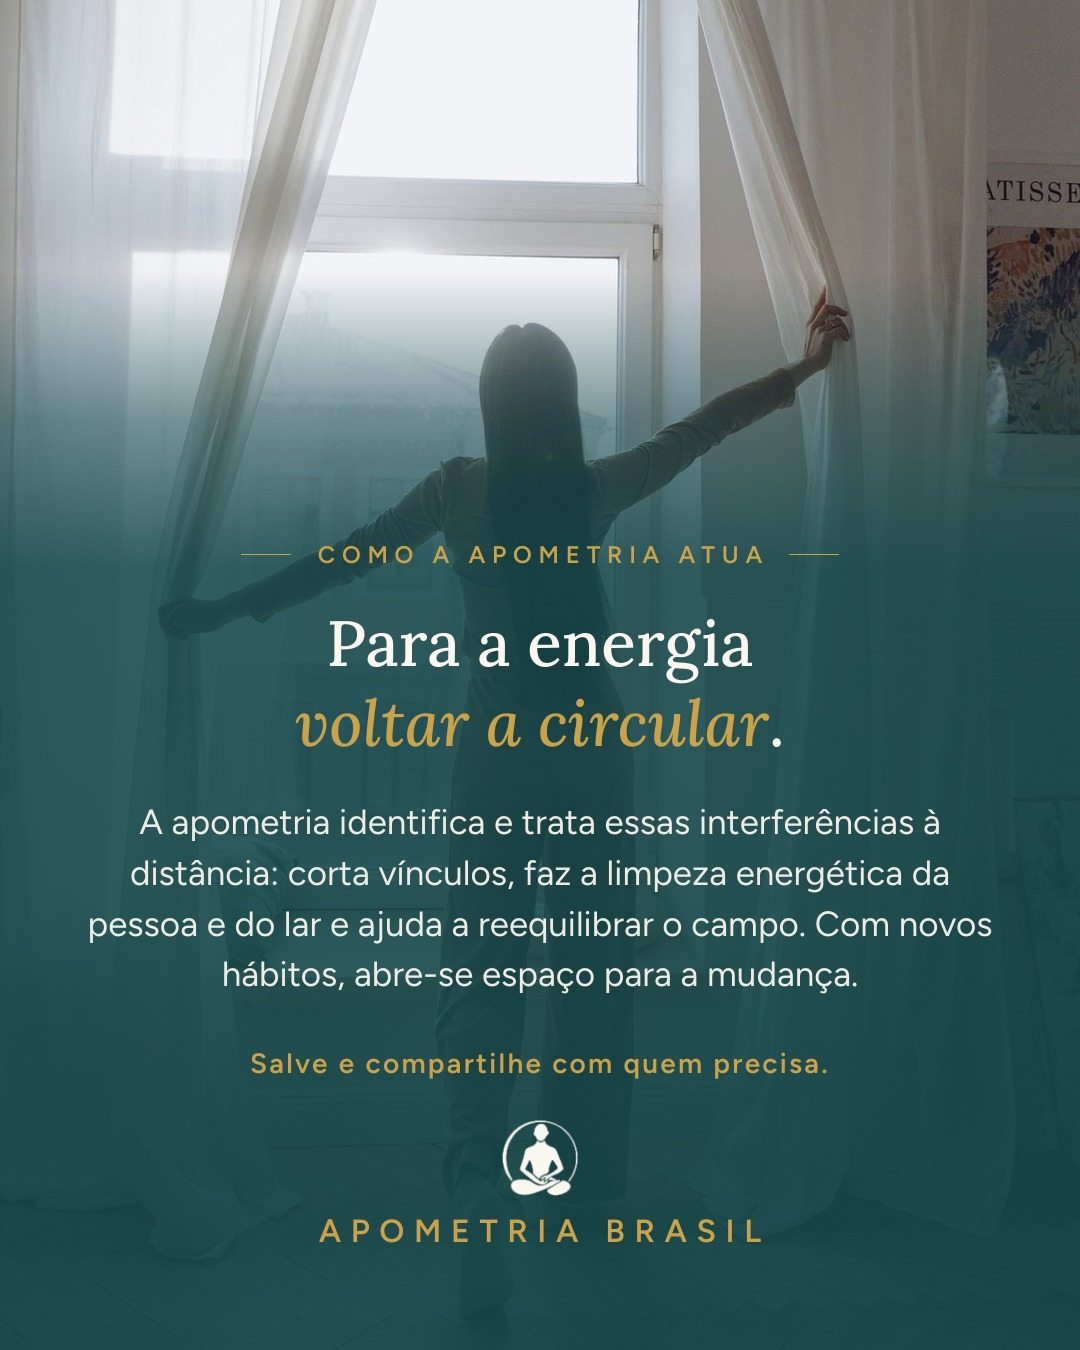
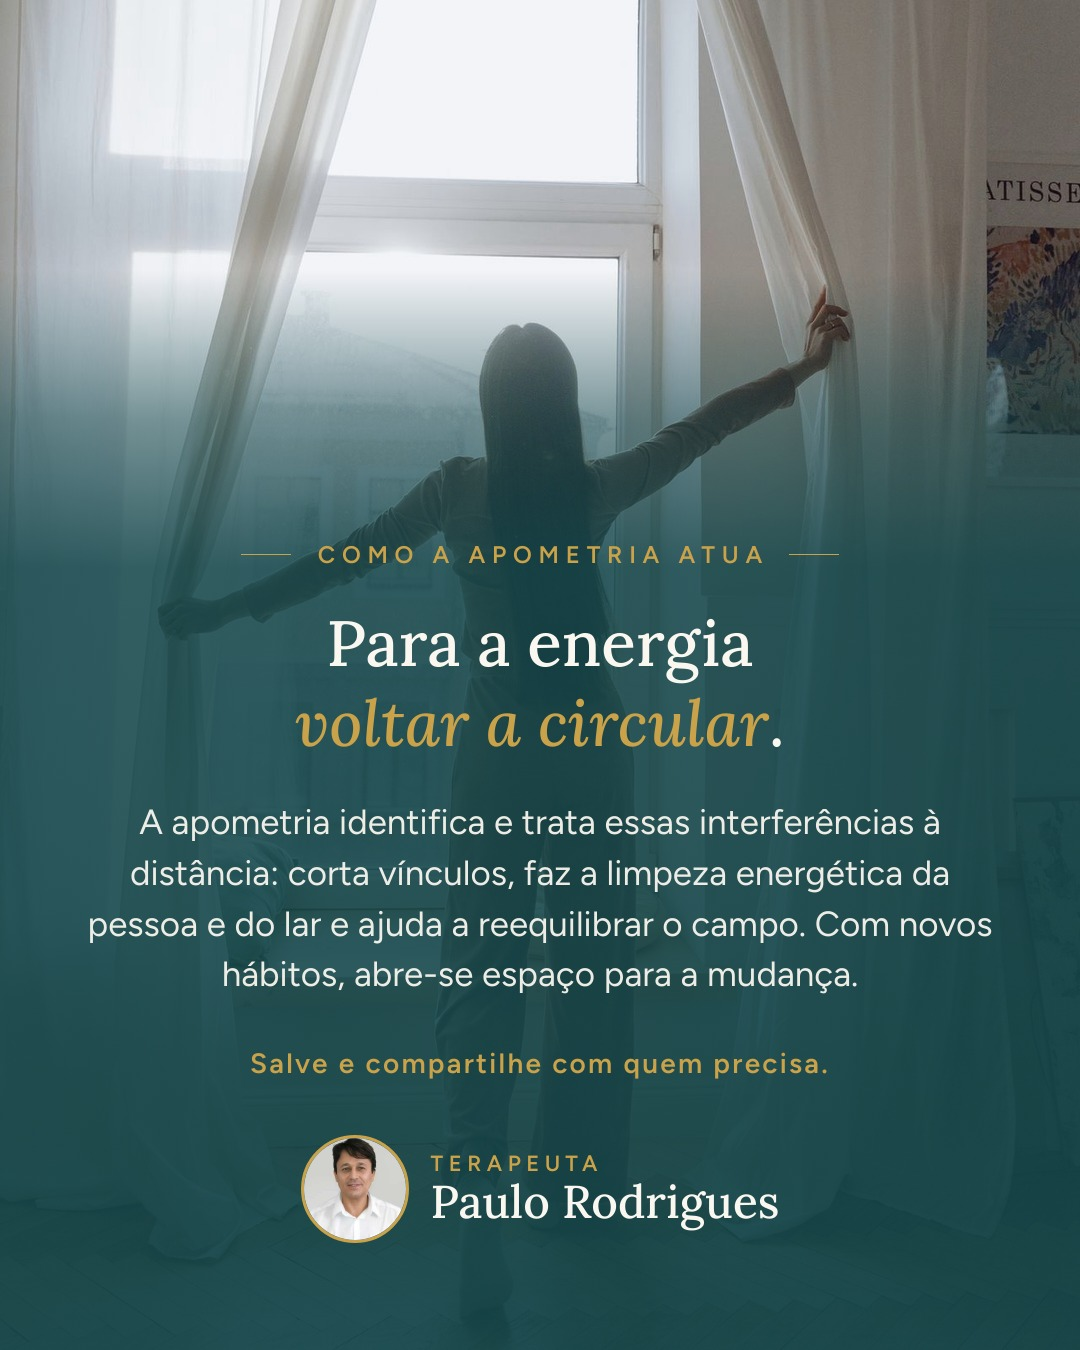
Assinatura da Apometria Brasil: foto e nome do terapeuta Paulo Rodrigues; carrossel de prosperidade atualizado
Claude-Session: https://claude.ai/code/session_01JEWNugGqZtfRNNpR6FEnd2

Changed region(s): [[0.275, 0.8089, 0.7333, 0.9333]]

diff --git a/modelos/remotion/src/Carrossel.tsx b/modelos/remotion/src/Carrossel.tsx
@@ -91,7 +91,7 @@ export const Carrossel: React.FC<PropsCarrossel> = ({pasta, identidade: id, lami
       </div>
       {ultima ? (
         id.assinatura ? (
-          <div style={{position: 'absolute', left: 0, width: 1080, top: 1100, display: 'flex', justifyContent: 'center', alignItems: 'center', gap: 22}}>
+          <div style={{position: 'absolute', left: 0, width: 1080, top: 1135, display: 'flex', justifyContent: 'center', alignItems: 'center', gap: 22}}>
             <Img src={arq(id.assinatura.foto)} style={{width: 108, height: 108, borderRadius: '50%', objectFit: 'cover', border: `3px solid ${id.cores.destaque}`}} />
             <div style={{textAlign: 'left'}}>
               {id.assinatura.cargo && <div style={{fontFamily: familia('rotulo'), fontWeight: Number(id.fontes.rotulo.peso), fontSize: 22, letterSpacing: '0.25em', color: id.cores.destaque}}>{id.assinatura.cargo.toUpperCase()}</div>}

diff --git a/marcas/apometria-brasil/aprendizados.md b/marcas/apometria-brasil/aprendizados.md
@@ -25,3 +25,4 @@ Os agentes leem este arquivo antes de criar.
 | 23/11/2026 | Direção geral | **vidIQ só para pesquisa**; criação de imagens e vídeos no **Gemini** (no navegador dela) | Sim: agentes entregam comandos para o Gemini; ela gera e salva no Drive |
 | 23/11/2026 | Carrossel prosperidade | Achou "horrível" a versão ilustrada em código; **cancelou o sistema de vários agentes** e pediu para voltar ao modelo do carrossel do alcoolismo (fotos reais + faixa da marca) | Sim: padrão volta a ser o de 14/11 |
 | 23/11/2026 | Carrossel prosperidade | Achou os textos "horríveis" (frases soltas, informais, tipo "tem coisa que não aparece no extrato") | Sim: escrever como no carrossel do alcoolismo — cada lâmina explica um ponto, frases completas, tom explicativo e acolhedor |
+| 24/11/2026 | Carrossel prosperidade | Trocar a assinatura "APOMETRIA BRASIL" por **"Terapeuta Paulo Rodrigues" com miniatura do rosto dele** (foto do perfil @apometria_brasil) | Sim: padrão em `identidade.json` (`assinatura`) |

diff --git a/marcas/apometria-brasil/marca.md b/marcas/apometria-brasil/marca.md
@@ -27,7 +27,7 @@ Chamadas permitidas: salvar, compartilhar, comentar uma palavra. Nada de "agende
 | Apoio | Petróleo-médio `#1C5F63`, Areia `#F4EFE6`, Linho `#E1D9C7`, Sálvia `#C6D4CF` |
 | Títulos | Lora 500 (itálico dourado na palavra-chave) |
 | Textos | Figtree 400 · Rótulos e assinatura: Figtree 600, caixa alta, espaçada |
-| Assinatura | Logo creme + `APOMETRIA BRASIL` em dourado |
+| Assinatura | **Foto redonda do Paulo + "Terapeuta Paulo Rodrigues"** (desde 24/11/2026; foto: `paulo.jpg`, do perfil @apometria_brasil) |
 
 Valores prontos para o modelo: `identidade.json`. Logo: `logo.png` (fundo transparente). É pequeno: não usar acima de ~150 px de altura.
 
